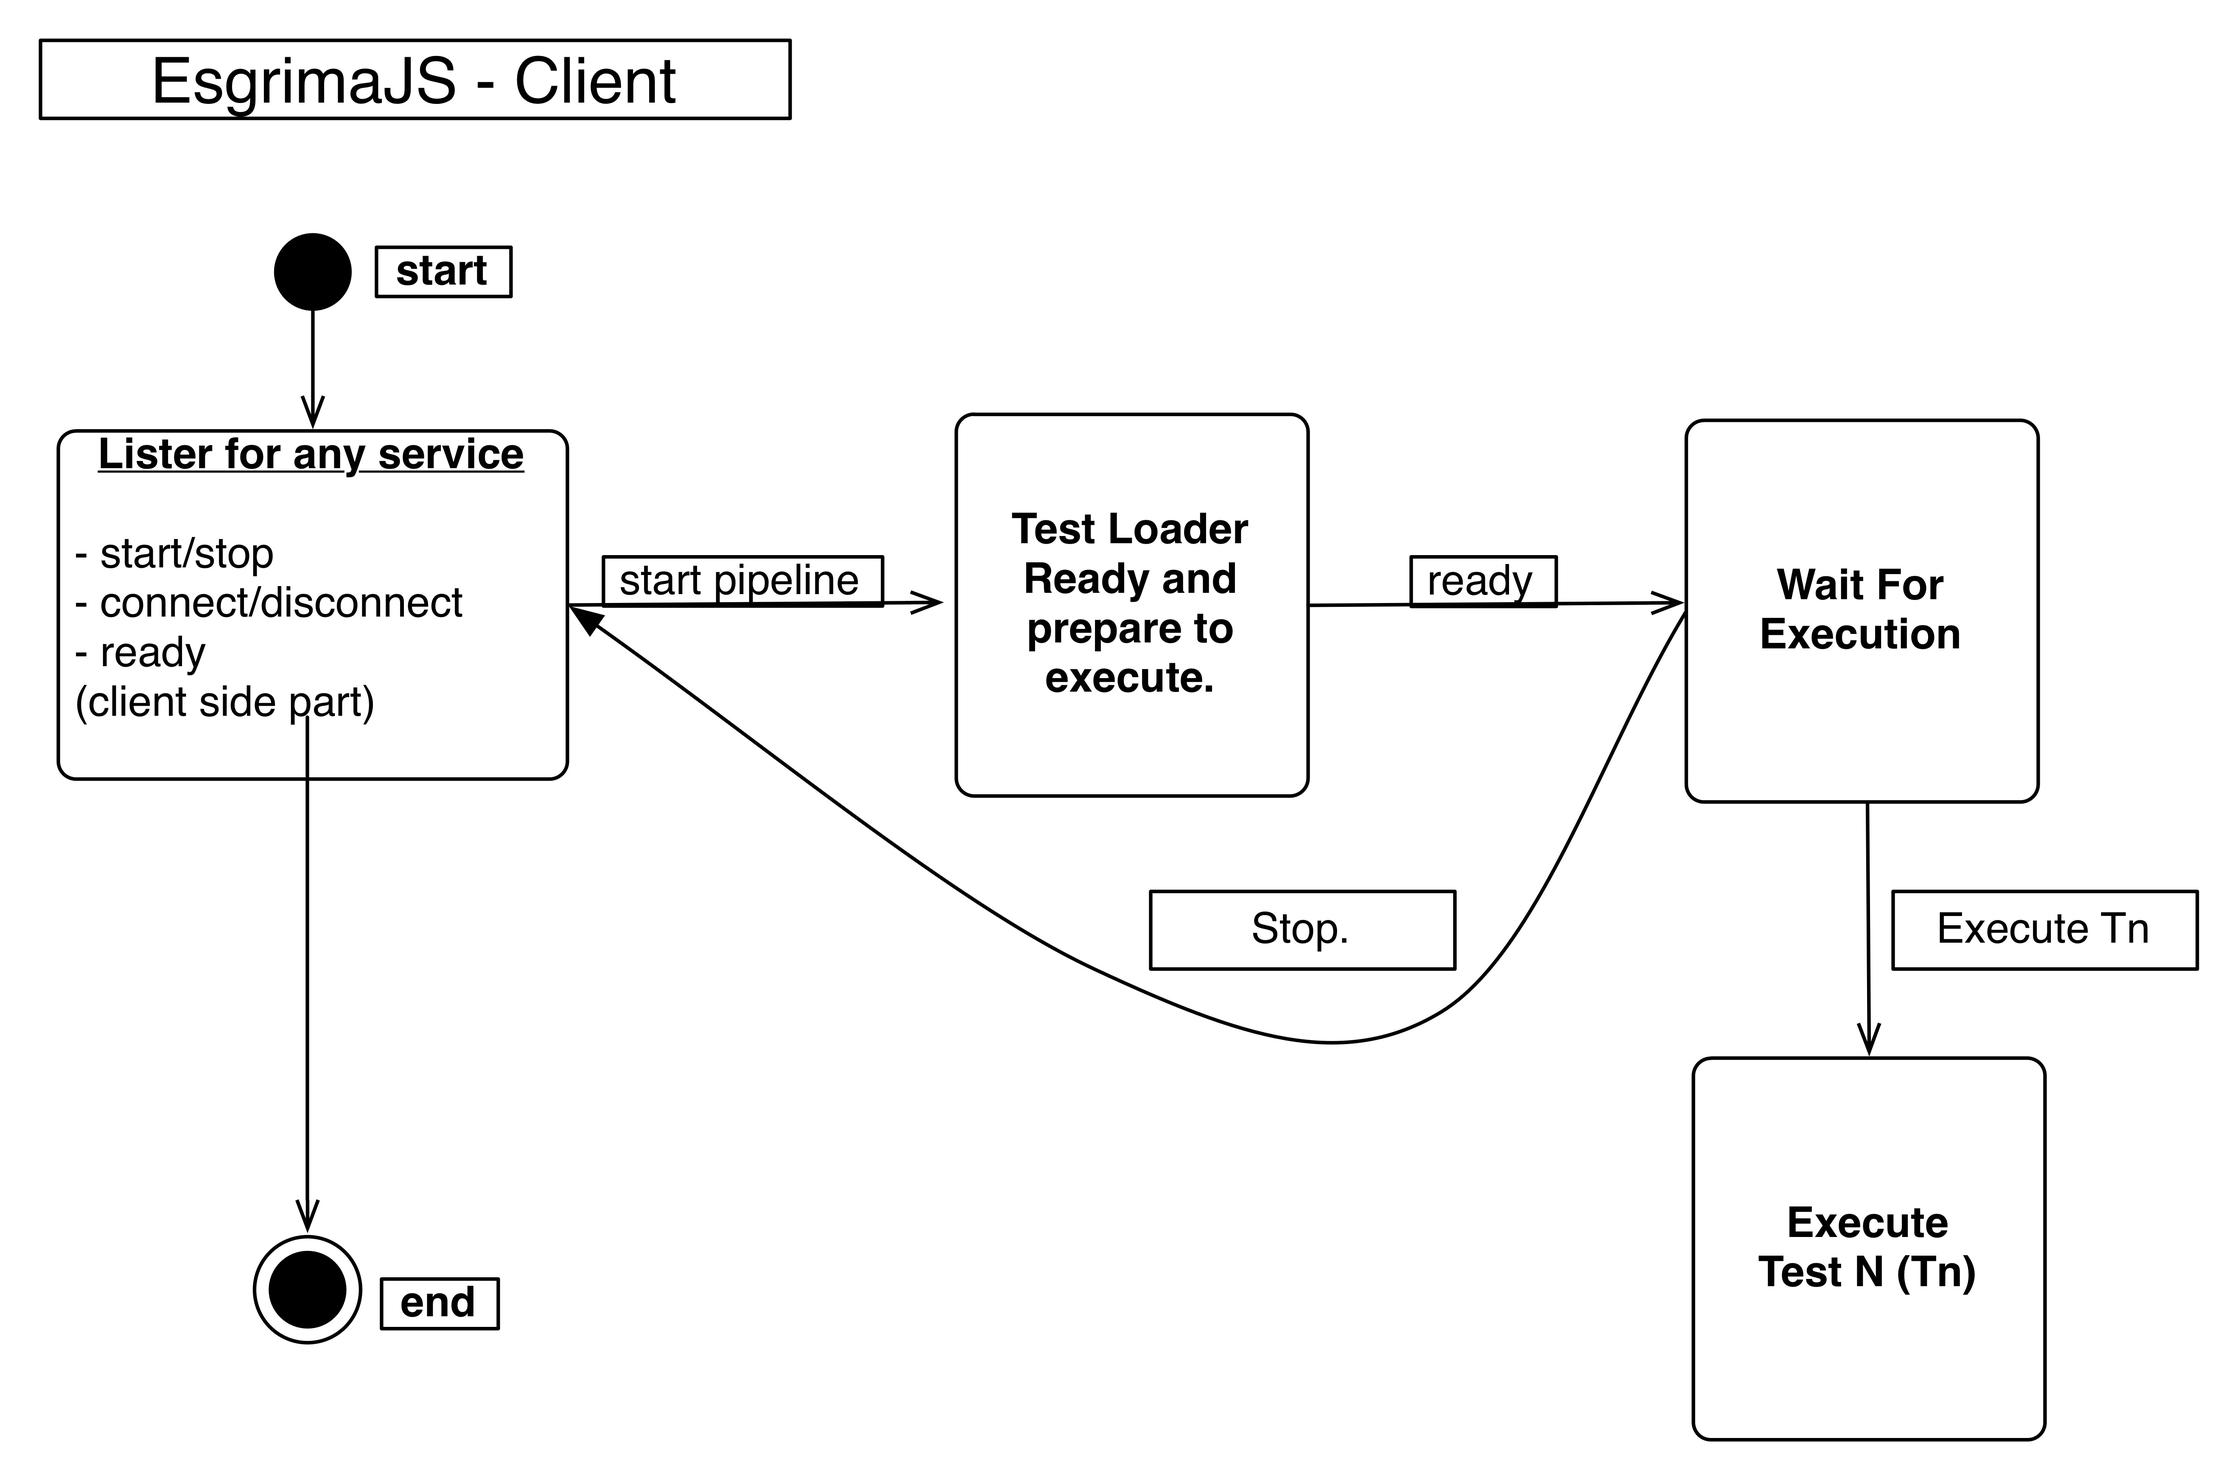
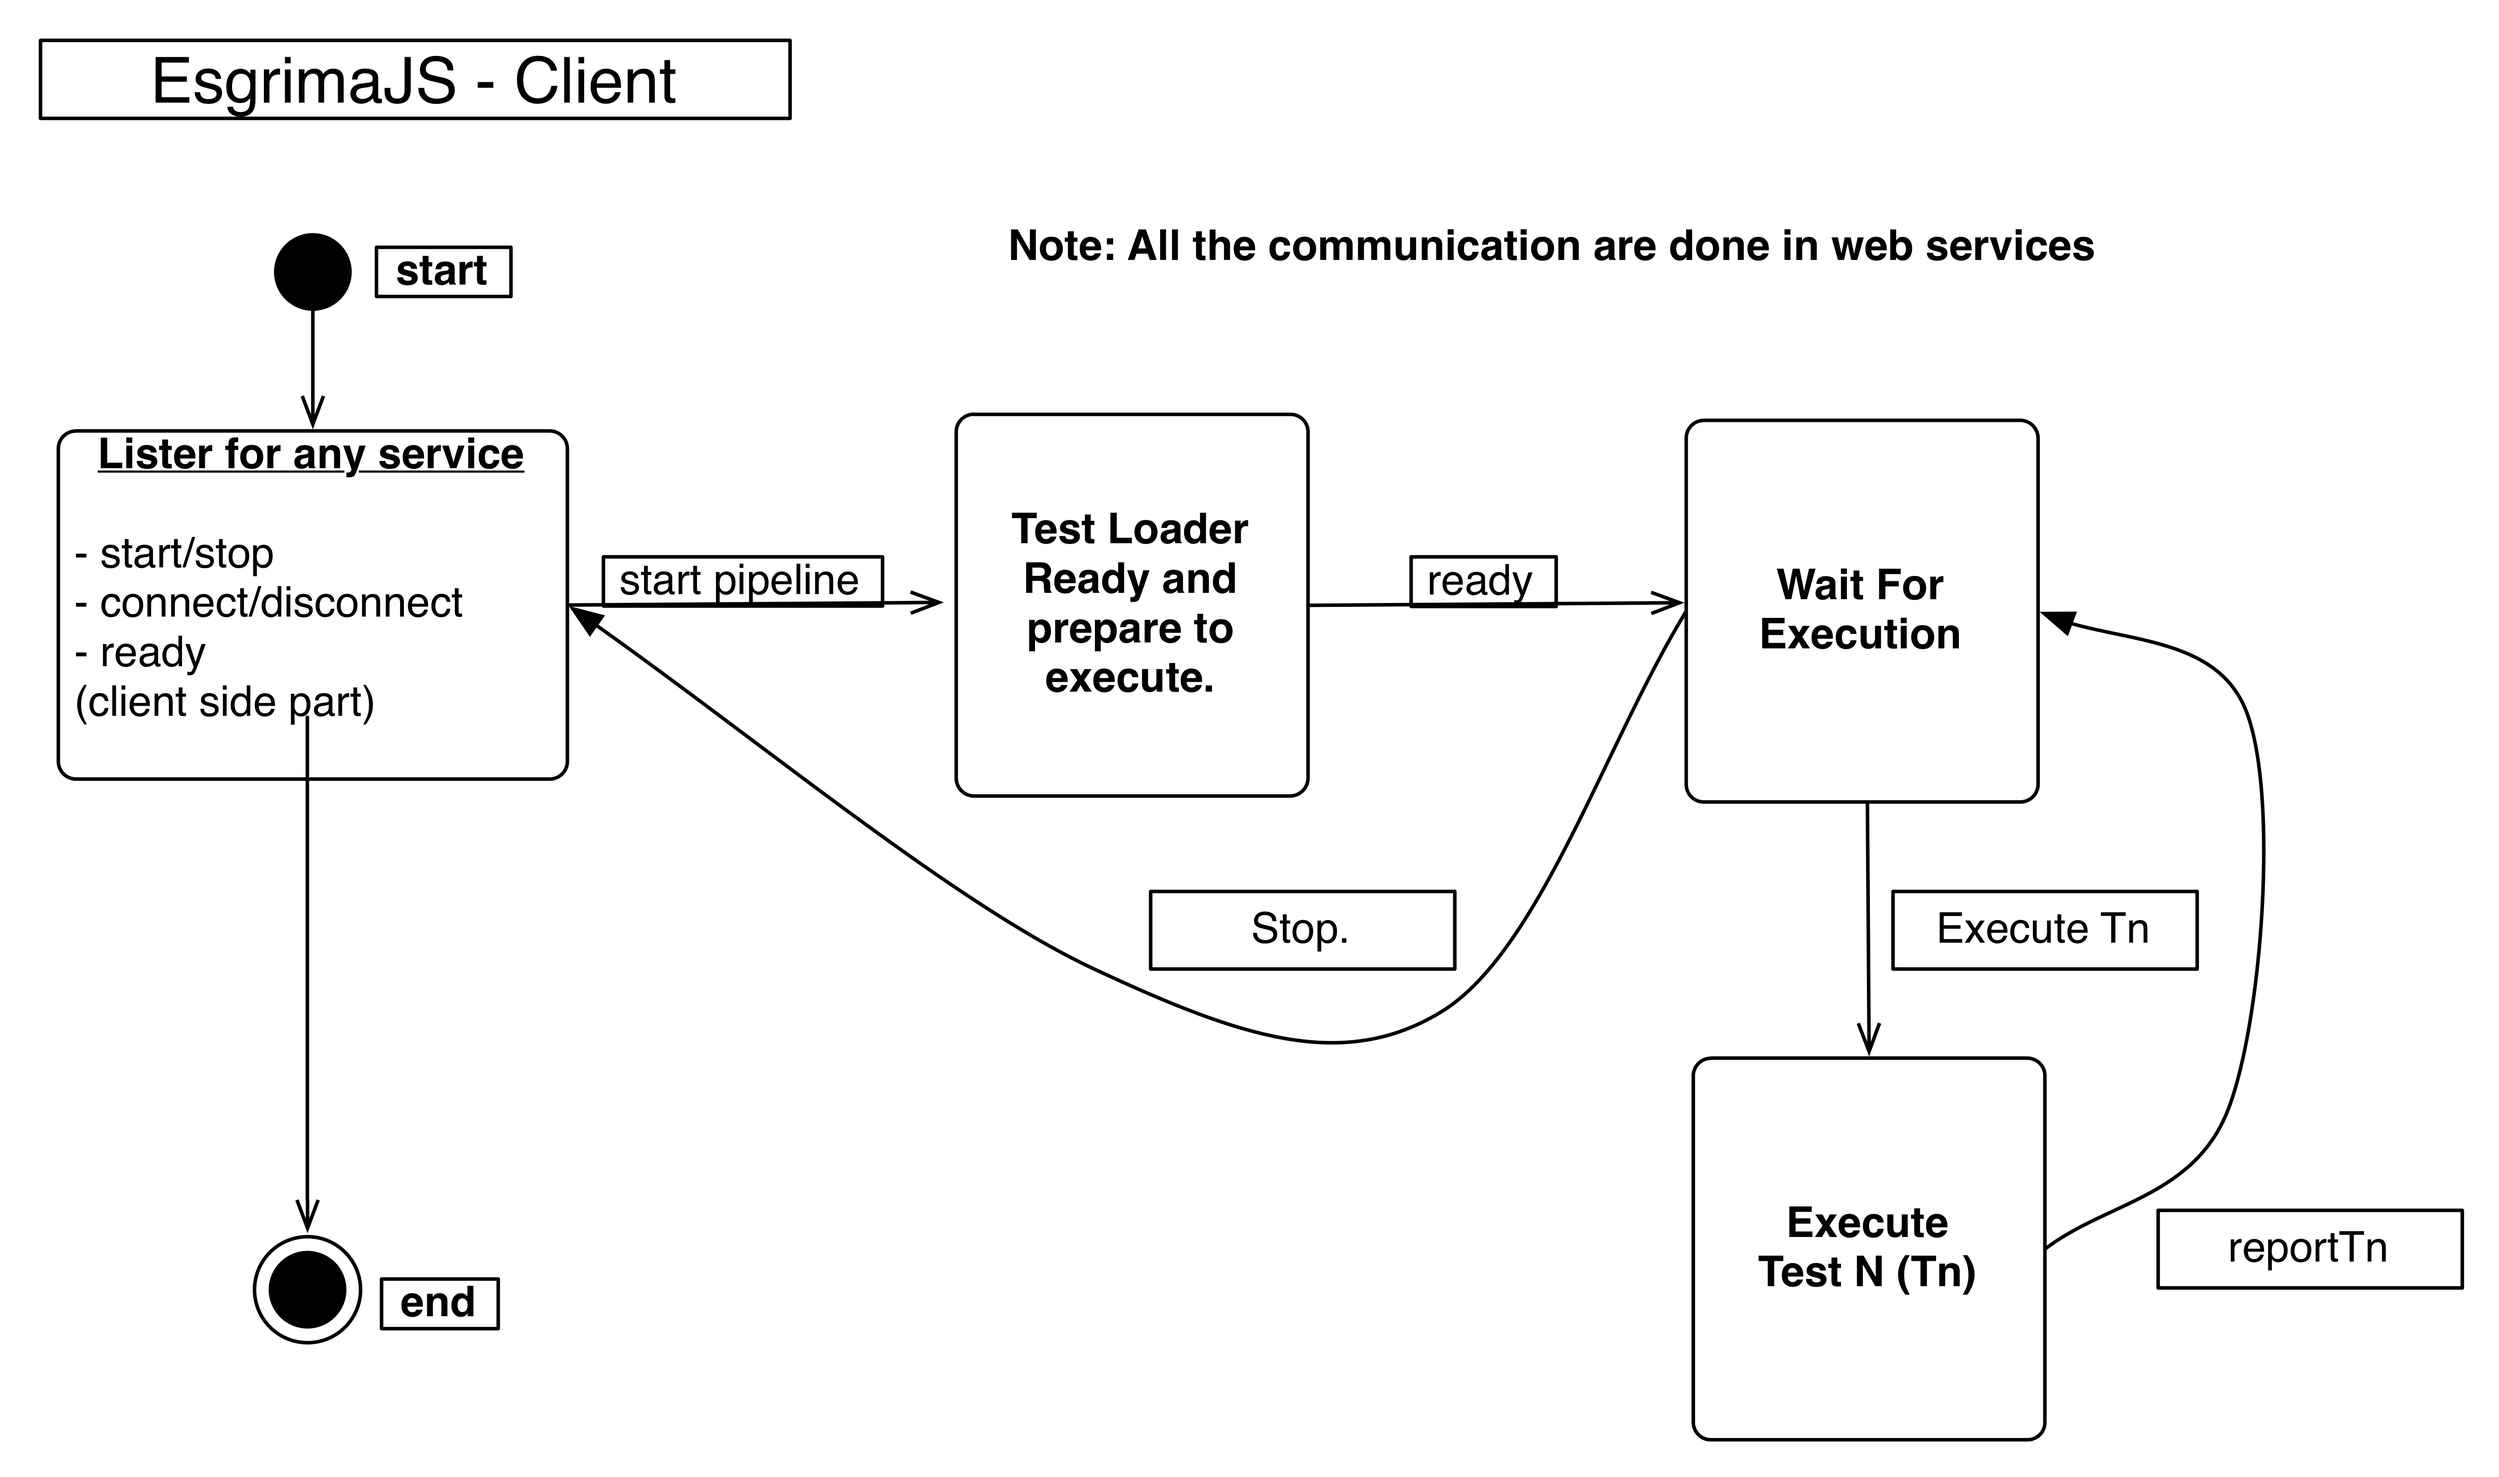
Schemas

diff --git a/server/lib/handlers/AnswerEventProcessor.js b/server/lib/handlers/AnswerEventProcessor.js
@@ -30,8 +30,8 @@ class AnswerEventProcessor {
 
     areAllTheClientsReady()
     {
-        
-        
+        // TODO: implement
+        return false;
     }
     
     
@@ -55,15 +55,20 @@ class AnswerEventProcessor {
 
 
                 socket.on('start', function(){
+                    
 
                 });
 
                 socket.on('ready', function(){
-                
+
+                    fsm.ready();
+                    
                 });
                 
 
                 socket.on('executeTn', function(){
+
+                    fsm.executeTn();
 
                 });
 
